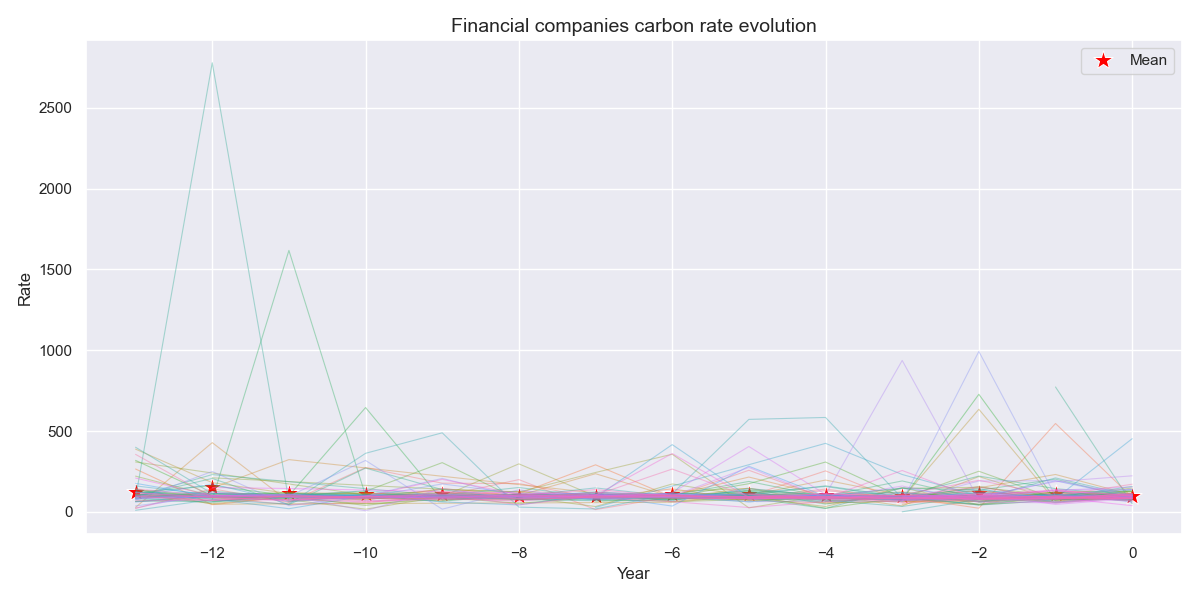
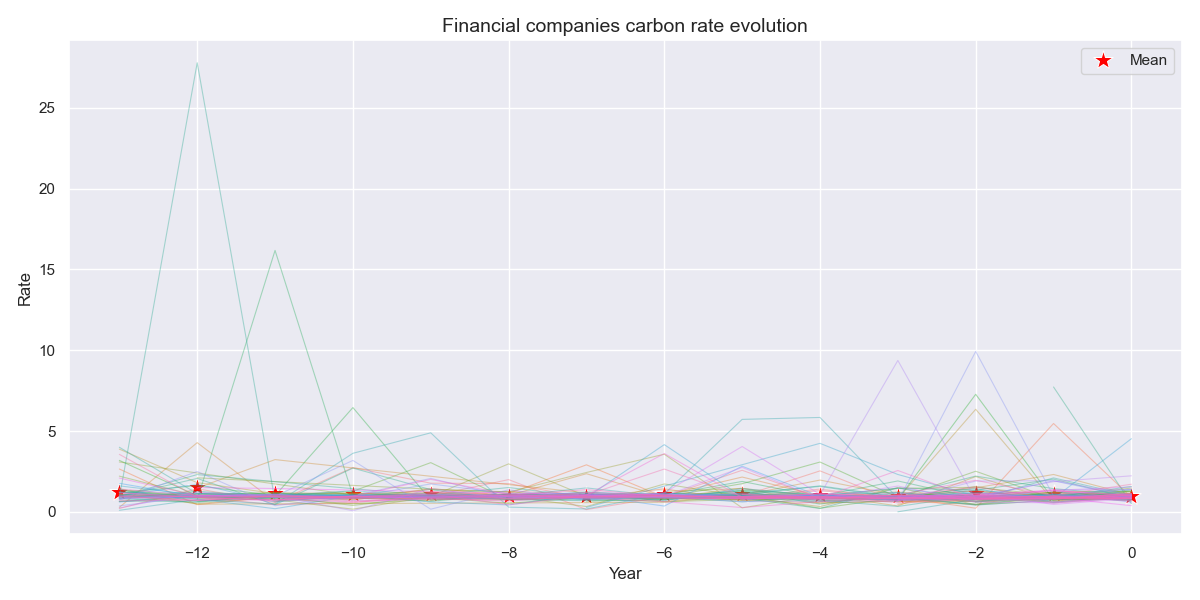
extracted global CO2 paths from scenarios

diff --git a/Data_simul.py b/Data_simul.py
@@ -6,6 +6,10 @@ Created on Tue Jan 21 17:24:07 2025
 """
 import pandas as pd
 import numpy as np
+import matplotlib.pyplot as plt
+import seaborn as sns
+
+#%%
 
 sectors = ["Communication Services", "Consumer Discretionary",
            "Consumer Staples", "Energy", "Financials",
@@ -28,16 +32,17 @@ indic = "CO2"
 filtered = filtered[filtered["Variable"].str.contains(indic, case=False, na=False)]
 
 #%%
-df_long = filtered.melt(
+scenarios_means = filtered[filtered["Variable"] == "Emissions|CO2"]
+
+scenar = scenarios_means.melt(
     id_vars=["Model", "Scenario", "Region", "Variable", "Unit"],
     var_name="Year",
     value_name="Value"
 )
 
-
-df_long["Year"] = df_long["Year"].astype(int)
-df_long["Value"] = pd.to_numeric(df_long["Value"], errors="coerce")
-df_long = df_long.infer_objects()  # Avoid warning
+scenar["Year"] = scenar["Year"].astype(int)
+scenar["Value"] = pd.to_numeric(scenar["Value"], errors="coerce")
+scenar = scenar.infer_objects() # Avoid warning
 
 def interpolate_group(group):
     # Group on first 5 columns
@@ -53,19 +58,36 @@ def interpolate_group(group):
         group[col] = group_metadata[col]
     return group
 
-df_interp = (
-    df_long.groupby(["Model", "Scenario", "Region", "Variable", "Unit"], group_keys=False)
+df_int = (
+    scenar.groupby(["Model", "Scenario", "Region", "Variable", "Unit"], group_keys=False)
     .apply(interpolate_group)
 )
 
-df_interp = df_interp[
+df_int = df_int[
     ["Model", "Scenario", "Region", "Variable", "Unit", "Year", "Value"]
 ]
-
-#print(df_interp.head(20))
+#%%
 
 #%%
-scenario_data = df_interp.copy()
+scenario_data = df_int.copy()
 scenario_data["Ratio"] = scenario_data.groupby(['Model', 'Scenario', 'Region', 'Variable'])['Value']\
                  .transform(lambda x: x / x.shift(1))
-scenario_data.drop({"Model", "Region", "Unit", "Value"}, axis = 1, inplace = True)
+scenario_data.drop({"Model", "Region", "Unit", "Value", "Variable"}, axis = 1, inplace = True)
+
+
+sc = scenario_data.pivot(index=["Scenario"], columns="Year", values="Ratio")
+
+#%%
+df_plot = sc.reset_index().melt(id_vars="Scenario", var_name="Year", value_name="Ratio")
+plt.figure(figsize=(10, 6))
+sns.lineplot(data=df_plot, x="Year", y="Ratio", hue="Scenario", marker="o")
+
+plt.title("Carbonation rate for each scenario", fontsize=16)
+plt.xlabel("Year", fontsize=14)
+plt.ylabel("CR", fontsize=14)
+plt.legend(title="Scenario", fontsize=12)
+plt.grid(True)
+plt.show()
+
+#%% Simulate data for sectors
+

diff --git a/Carbon_Traj.py b/Carbon_Traj.py
@@ -21,7 +21,7 @@ stoxx = pd.read_excel("Data/Stoxx_data.xlsx")
 indicators = stoxx[["Instrument", "GICS Sector Name"]].copy()
 for i in range(13, -1, -1):
     # Actual year / Former year from Y-13 to Y-0
-    indicators["Rate Y-{i}".format(i = i)] = 100 * stoxx["Total Y-{i}".format(i = i)] / stoxx["Total Y-{j}".format(j = i+1)]
+    indicators["Rate Y-{i}".format(i = i)] = stoxx["Total Y-{i}".format(i = i)] / stoxx["Total Y-{j}".format(j = i+1)]
     
 for i in range(13, -1, -1):
     # Total emissions / Revenue 
